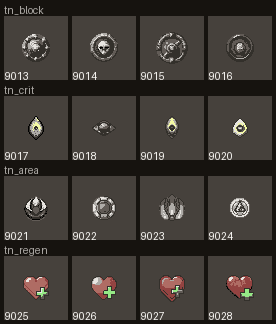
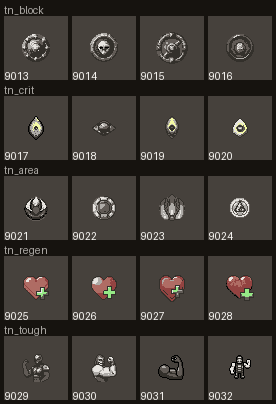
M2-36 D2 補跑：第 7 列（挑圖用）
Claude-Session: https://claude.ai/code/session_01LdUmBLLbZ3qo2BnEdyLSAK

diff --git a/art/_tmp/m2-36-d2-rerun/results.md b/art/_tmp/m2-36-d2-rerun/results.md
@@ -18,7 +18,7 @@
 | 4 | `tn_crit` | 4 | 4 | 0 | 4 |
 | 5 | `tn_area` | 4 | 4 | 0 | 0 |
 | 6 | `tn_regen` | 4 | 4 | 0 | 4 |
-| 7 | `tn_tough` | 4 | 0 | 0 | 0 |
+| 7 | `tn_tough` | 4 | 4 | 0 | 4 |
 | 8 | `tn_thorns` | 4 | 0 | 0 | 0 |
 | 9 | `tn_duration` | 4 | 0 | 0 | 0 |
 | 10 | `ts_phys` | 4 | 0 | 0 | 0 |
@@ -42,7 +42,7 @@
 | 28 | `cur_pcalam` | 3 | 0 | 0 | 0 |
 | 29 | `cur_ink` | 3 | 0 | 0 | 0 |
 | 30 | `plq_corner` | 3 | 0 | 0 | 0 |
-| 合計 | | 111 | 27 | 1 | 18 |
+| 合計 | | 111 | 31 | 1 | 22 |
 
 ## 牆
 
@@ -76,7 +76,7 @@
 | 4 | `tn_crit` | 9018 | 成功 | 原圖 ΔE>3 0%；最大 ΔE 0.0；放大圖 否；禁色 0；不透明 23%；半透明(原圖) 0；C*>40 0%；C* 上限 25%；本批別組最大 IoU 0.65（只回報） | ✅ |
 | 4 | `tn_crit` | 9019 | 成功 | 原圖 ΔE>3 0%；最大 ΔE 0.0；放大圖 否；禁色 0；不透明 22%；半透明(原圖) 0；C*>40 16%；C* 上限 25%；本批別組最大 IoU 0.64（只回報） | ✅ |
 | 4 | `tn_crit` | 9020 | 成功 | 原圖 ΔE>3 0%；最大 ΔE 0.0；放大圖 否；禁色 0；不透明 21%；半透明(原圖) 0；C*>40 19%；C* 上限 25%；本批別組最大 IoU 0.65（只回報） | ✅ |
-| 5 | `tn_area` | 9021 | 成功 | 原圖 ΔE>3 0%；最大 ΔE 0.0；放大圖 否；禁色 0；不透明 43%；半透明(原圖) 0；C*>40 0%；C* 上限 25%；本批別組最大 IoU 0.73（只回報） | ❌ 實心圓盤／圓底（剪影對同面積圓 IoU 0.97） |
+| 5 | `tn_area` | 9021 | 成功 | 原圖 ΔE>3 0%；最大 ΔE 0.0；放大圖 否；禁色 0；不透明 43%；半透明(原圖) 0；C*>40 0%；C* 上限 25%；本批別組最大 IoU 0.74（只回報） | ❌ 實心圓盤／圓底（剪影對同面積圓 IoU 0.97） |
 | 5 | `tn_area` | 9022 | 成功 | 原圖 ΔE>3 0%；最大 ΔE 0.0；放大圖 否；禁色 0；不透明 46%；半透明(原圖) 0；C*>40 0%；C* 上限 25%；本批別組最大 IoU 0.80（只回報） | ❌ 實心圓盤／圓底（剪影對同面積圓 IoU 1.00） |
 | 5 | `tn_area` | 9023 | 成功 | 原圖 ΔE>3 0%；最大 ΔE 0.0；放大圖 否；禁色 0；不透明 51%；半透明(原圖) 0；C*>40 0%；C* 上限 25%；本批別組最大 IoU 0.85（只回報） | ❌ 實心圓盤／圓底（剪影對同面積圓 IoU 0.94） |
 | 5 | `tn_area` | 9024 | 成功 | 原圖 ΔE>3 0%；最大 ΔE 0.0；放大圖 否；禁色 0；不透明 32%；半透明(原圖) 0；C*>40 0%；C* 上限 25%；本批別組最大 IoU 0.70（只回報） | ❌ 實心圓盤／圓底（剪影對同面積圓 IoU 1.00） |
@@ -84,10 +84,10 @@
 | 6 | `tn_regen` | 9026 | 成功 | 原圖 ΔE>3 0%；最大 ΔE 0.0；放大圖 否；禁色 0；不透明 46%；半透明(原圖) 0；C*>40 12%；C* 上限 25%；本批別組最大 IoU 0.80（只回報） | ✅ |
 | 6 | `tn_regen` | 9027 | 成功 | 原圖 ΔE>3 0%；最大 ΔE 0.0；放大圖 否；禁色 0；不透明 53%；半透明(原圖) 0；C*>40 3%；C* 上限 25%；本批別組最大 IoU 0.81（只回報） | ✅ |
 | 6 | `tn_regen` | 9028 | 成功 | 原圖 ΔE>3 0%；最大 ΔE 0.0；放大圖 否；禁色 0；不透明 53%；半透明(原圖) 0；C*>40 10%；C* 上限 25%；本批別組最大 IoU 0.75（只回報） | ✅ |
-| 7 | `tn_tough` | 9029 | 未送出 | — | — |
-| 7 | `tn_tough` | 9030 | 未送出 | — | — |
-| 7 | `tn_tough` | 9031 | 未送出 | — | — |
-| 7 | `tn_tough` | 9032 | 未送出 | — | — |
+| 7 | `tn_tough` | 9029 | 成功 | 原圖 ΔE>3 0%；最大 ΔE 0.0；放大圖 否；禁色 0；不透明 47%；半透明(原圖) 0；C*>40 0%；C* 上限 25%；本批別組最大 IoU 0.70（只回報） | ✅ |
+| 7 | `tn_tough` | 9030 | 成功 | 原圖 ΔE>3 0%；最大 ΔE 0.0；放大圖 否；禁色 0；不透明 49%；半透明(原圖) 0；C*>40 0%；C* 上限 25%；本批別組最大 IoU 0.80（只回報） | ✅ |
+| 7 | `tn_tough` | 9031 | 成功 | 原圖 ΔE>3 0%；最大 ΔE 0.0；放大圖 否；禁色 0；不透明 39%；半透明(原圖) 0；C*>40 0%；C* 上限 25%；本批別組最大 IoU 0.67（只回報） | ✅ |
+| 7 | `tn_tough` | 9032 | 成功 | 原圖 ΔE>3 0%；最大 ΔE 0.0；放大圖 否；禁色 0；不透明 30%；半透明(原圖) 0；C*>40 0%；C* 上限 25%；本批別組最大 IoU 0.69（只回報） | ✅ |
 | 8 | `tn_thorns` | 9033 | 未送出 | — | — |
 | 8 | `tn_thorns` | 9034 | 未送出 | — | — |
 | 8 | `tn_thorns` | 9035 | 未送出 | — | — |
